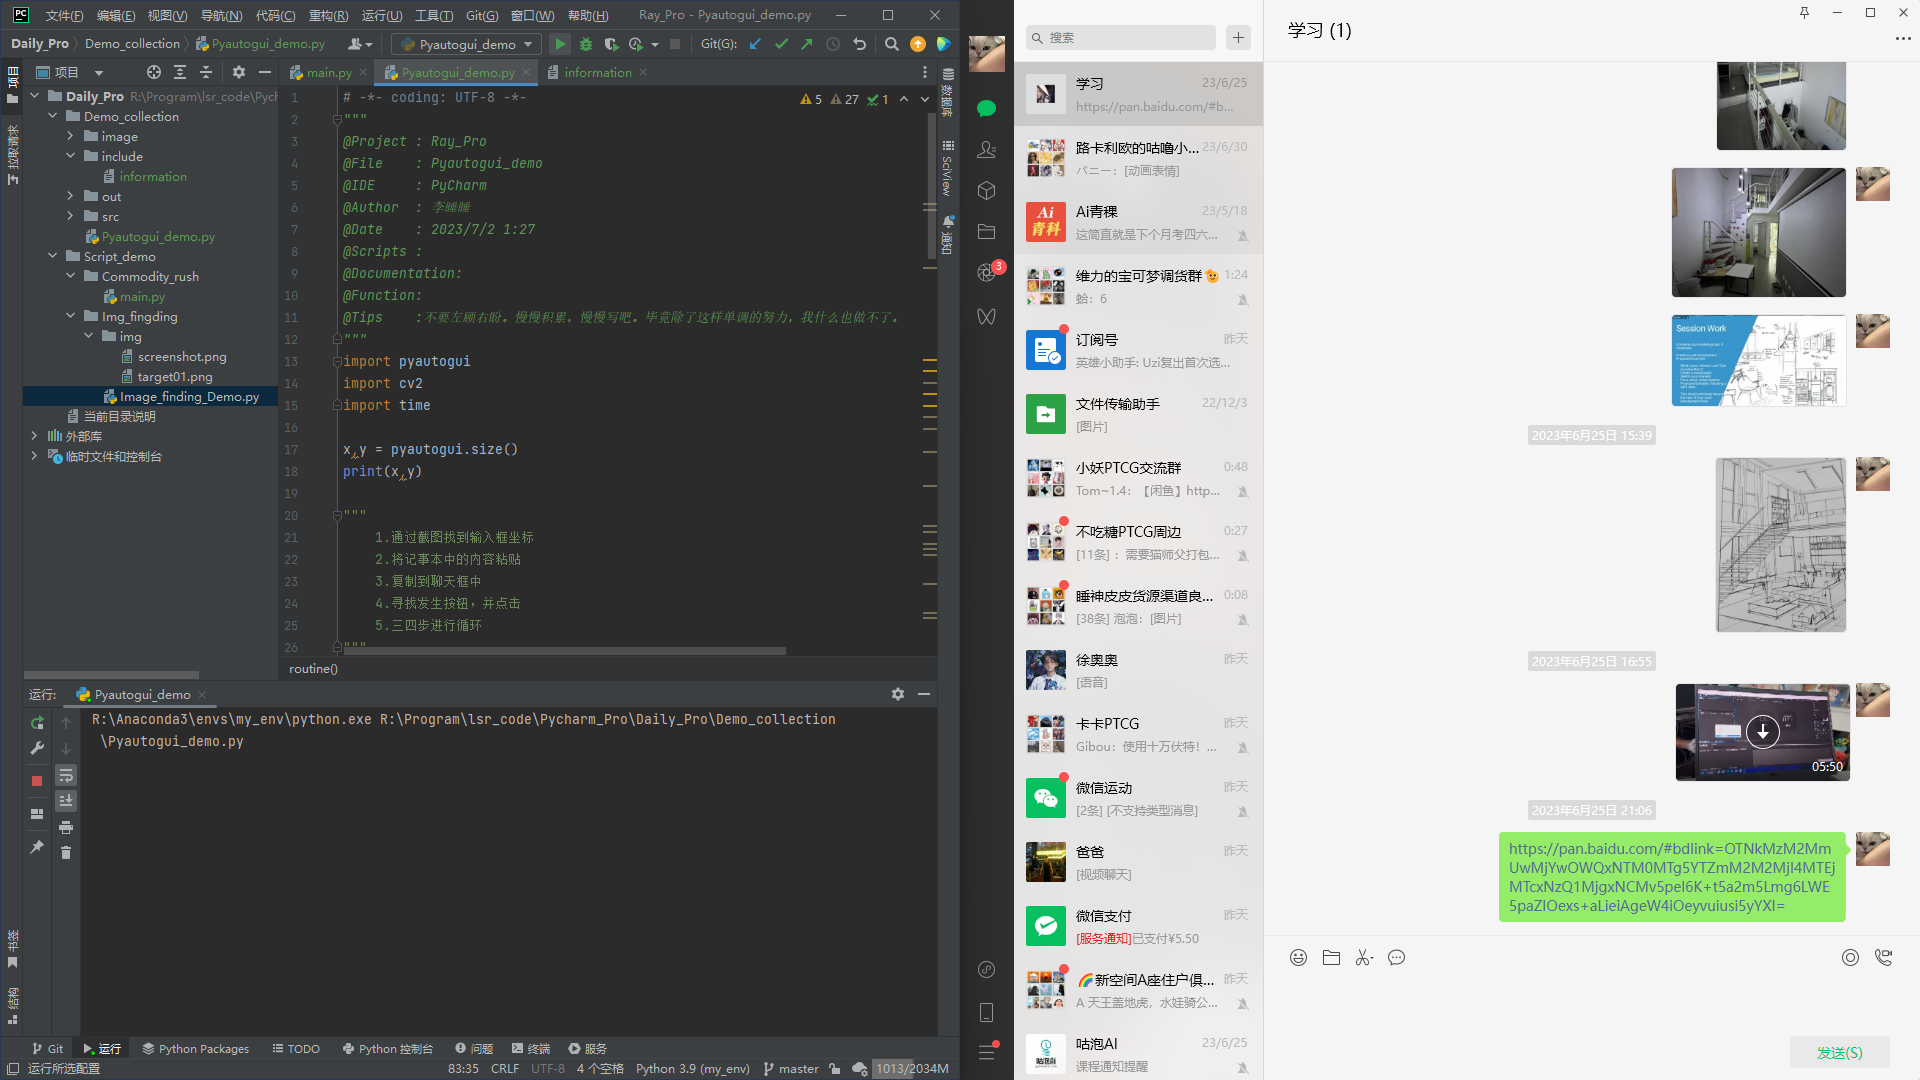
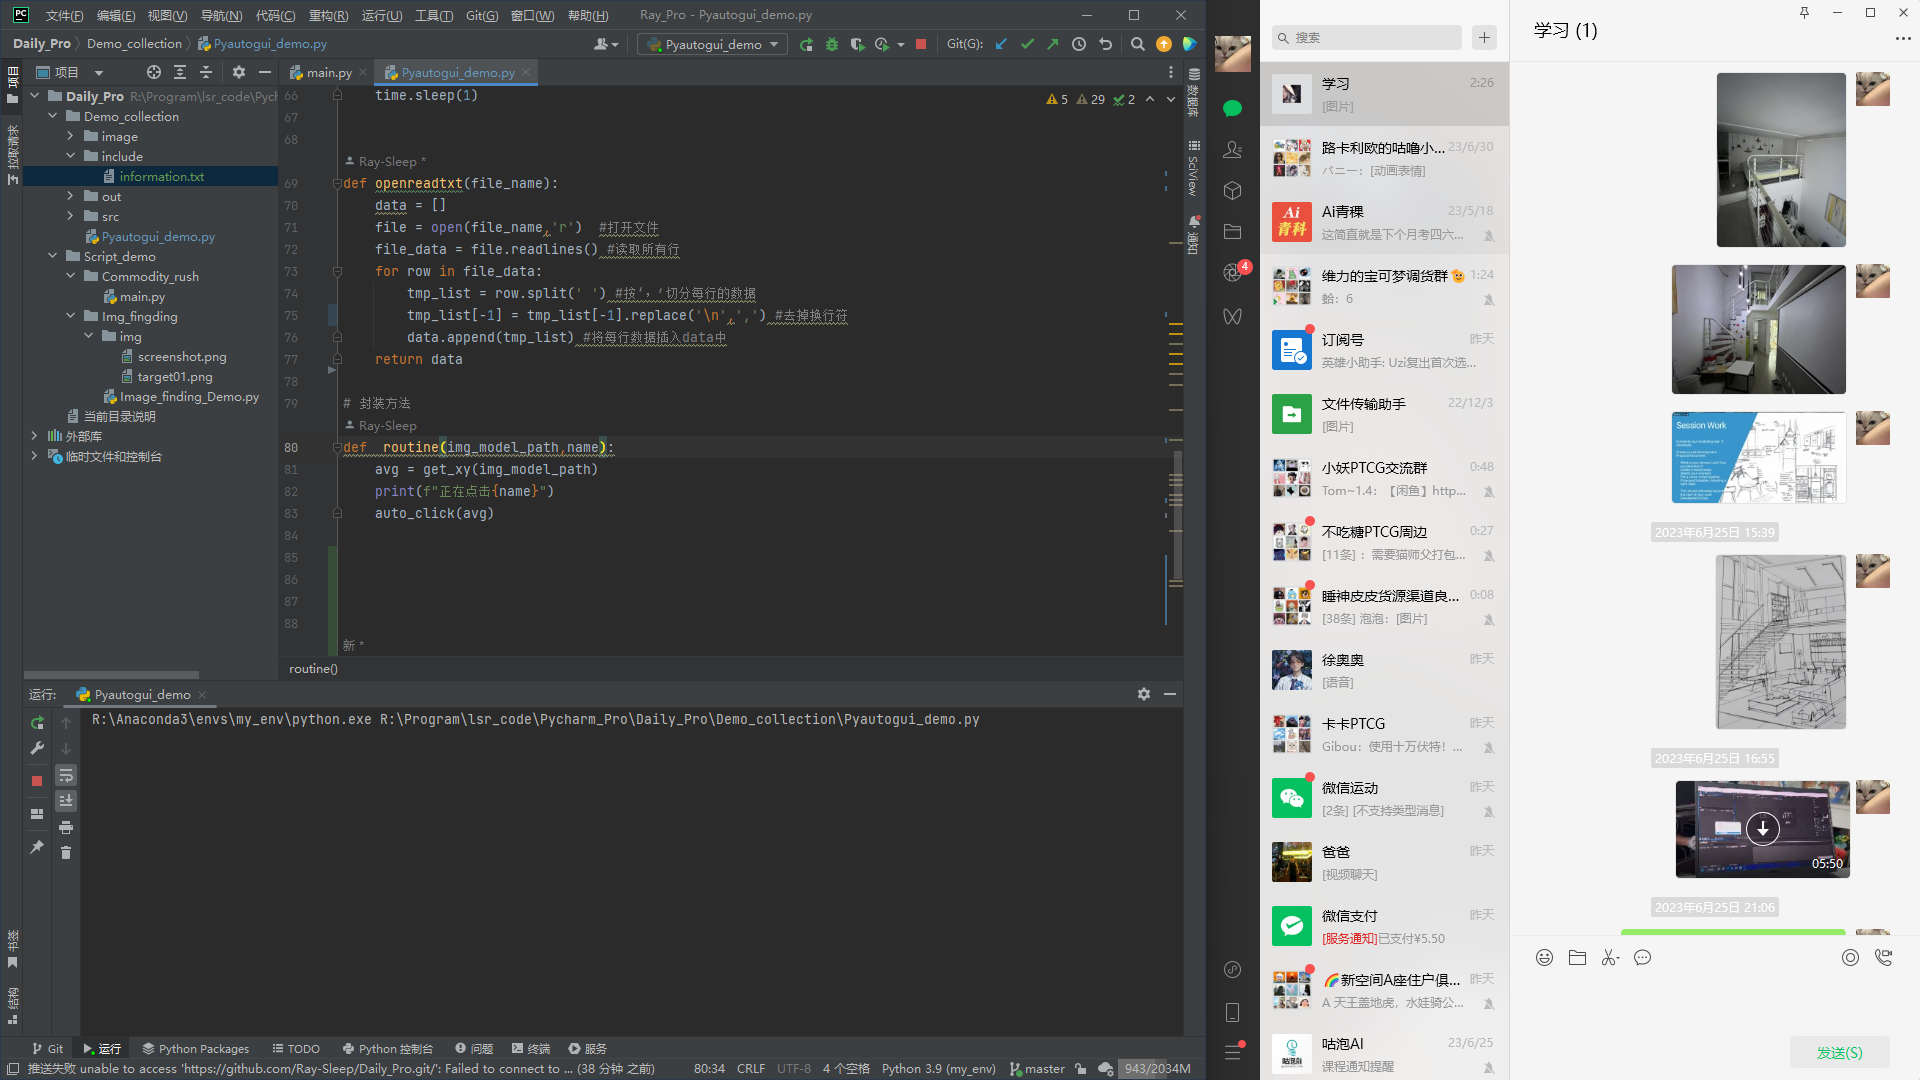
数据变更

diff --git a/Demo_collection/Pyautogui_demo.py b/Demo_collection/Pyautogui_demo.py
@@ -10,12 +10,10 @@
 @Function: 
 @Tips    :不要左顾右盼。慢慢积累，慢慢写吧。毕竟除了这样单调的努力，我什么也做不了。
 """
-import pyautogui
+import pyautogui as pyg
 import cv2
 import time
-
-x,y = pyautogui.size()
-print(x,y)
+import pandas as pd
 
 """
     1.通过截图找到输入框坐标
@@ -39,7 +37,7 @@ def get_xy(img_model_path):
         method：要使用的数据比较方法
     """
     # 将截图保存
-    pyautogui.screenshot().save('./image/screenshot.png')
+    pyg.screenshot().save('./image/screenshot.png')
     # 载入截图
     img = cv2.imread('./image/screenshot.png')      # 屏幕截图路径
     # 图像模板
@@ -63,10 +61,9 @@ def auto_click(var_avg):
     :param var_avg: 左边元组
     :return: None
     """
-    pyautogui.click(var_avg[0],var_avg[1],button="left")
+    pyg.click(var_avg[0],var_avg[1],button="left")
     # 睡眠操作：等待界面跳转
     time.sleep(1)
-
 
 def openreadtxt(file_name):
     data = []
@@ -74,10 +71,9 @@ def openreadtxt(file_name):
     file_data = file.readlines() #读取所有行
     for row in file_data:
         tmp_list = row.split(' ') #按‘，’切分每行的数据
-        #tmp_list[-1] = tmp_list[-1].replace('\n',',') #去掉换行符
+        tmp_list[-1] = tmp_list[-1].replace('\n',',') #去掉换行符
         data.append(tmp_list) #将每行数据插入data中
     return data
-
 
 # 封装方法
 def  routine(img_model_path,name):
@@ -85,5 +81,12 @@ def  routine(img_model_path,name):
     print(f"正在点击{name}")
     auto_click(avg)
 
-routine("img/target01.png", "微信聊天框")
-print(openreadtxt('./include/information.txt'))
+def read_tablemethod(filename):
+    data = pd.read_table(filename, delim_whitespace=True)
+    return data
+
+
+if __name__ == "__main__":
+    routine("img/target01.png", "微信聊天框")
+    data = read_tablemethod('./include/information.txt')
+    print(data)
